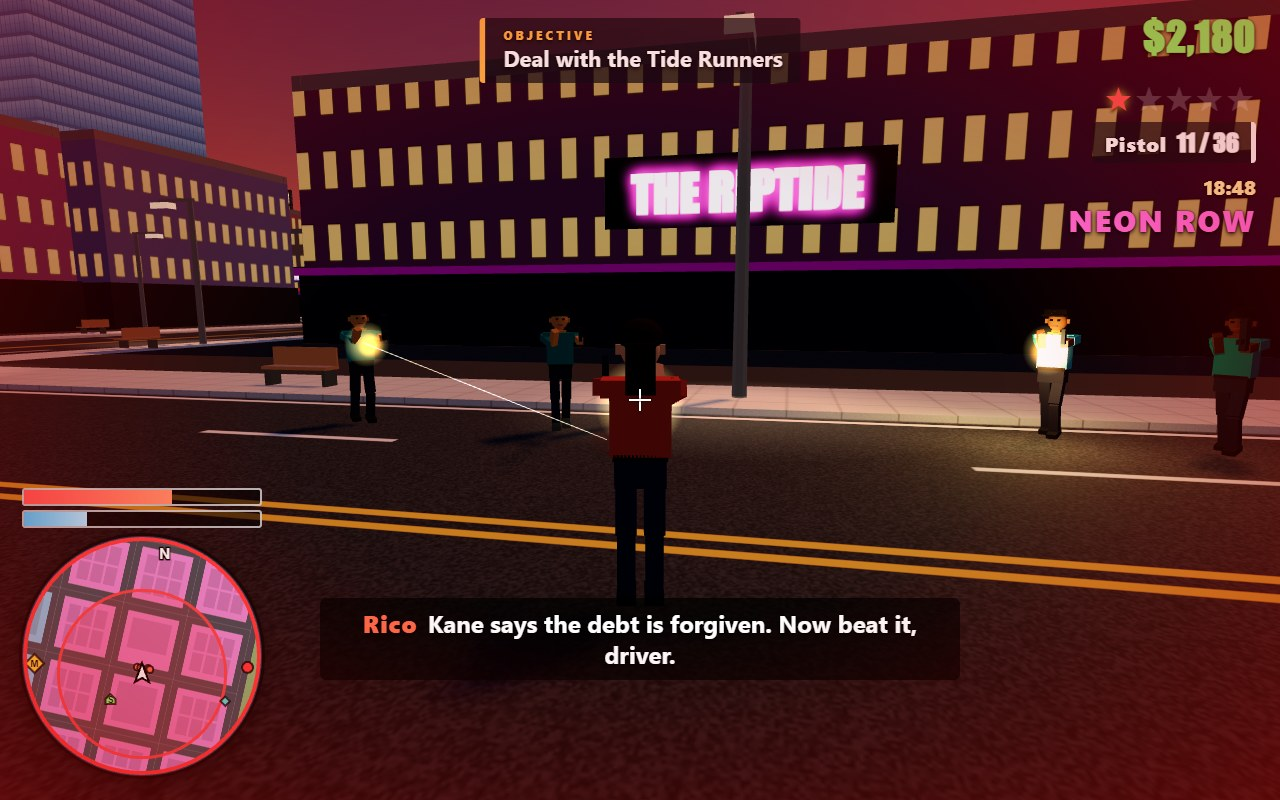
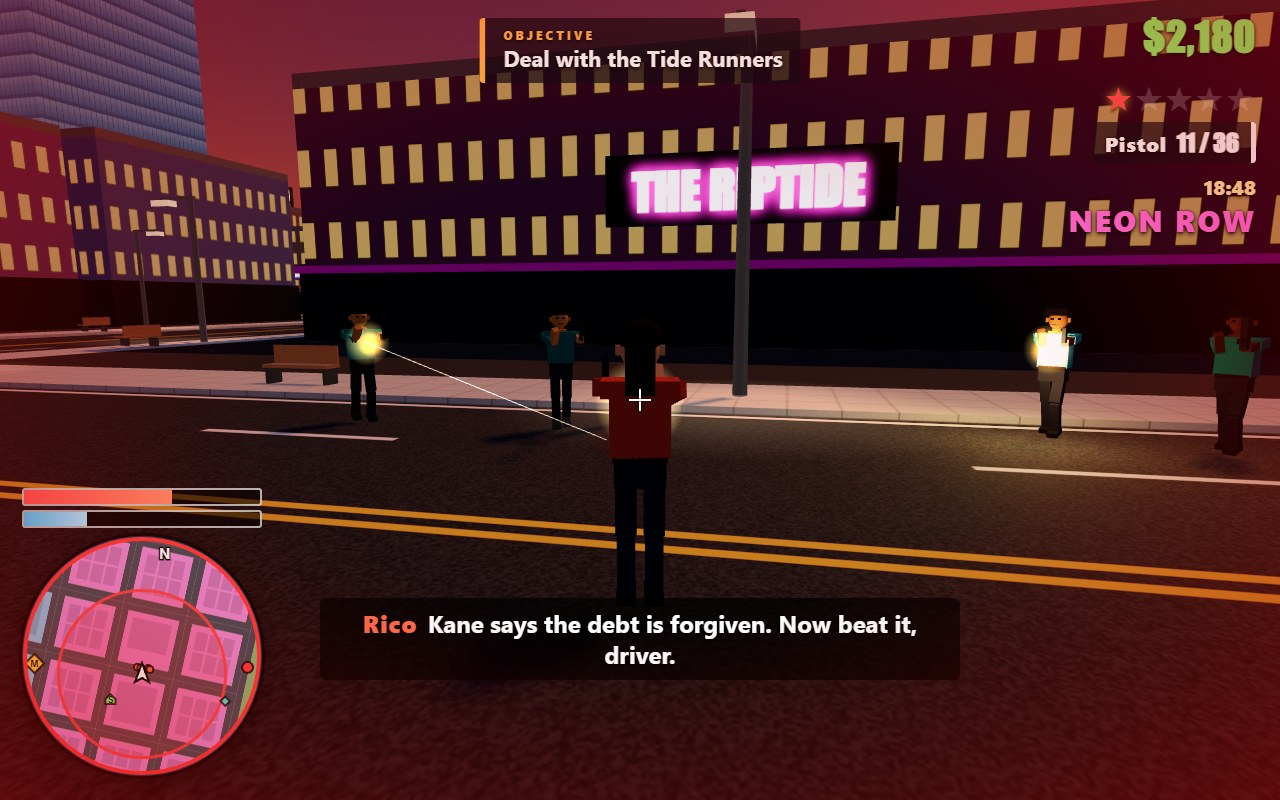
Round 3: deterministic test-mode key handling, saved-car restore check, cover traffic, final screenshots

diff --git a/game/src/shots.js b/game/src/shots.js
@@ -68,6 +68,9 @@ export async function stageShot(name, G) {
     G.traffic.spawnCar({ x: x0 + 48, z: layout.oceanZ + 5.25, yaw: Math.PI / 2, node: G.nav.node(5, 9), dir: 'e', lane: 1 }, 'taxi');
     G.traffic.spawnCar({ x: x0 + 70, z: layout.oceanZ + 1.75, yaw: Math.PI / 2, node: G.nav.node(5, 9), dir: 'e', lane: 0 }, 'sedan');
     G.traffic.spawnCar({ x: x0 - 70, z: layout.oceanZ - 5.25, yaw: -Math.PI / 2, node: G.nav.node(3, 9), dir: 'w', lane: 1 }, 'van');
+    // Oncoming traffic in the far lane beside the camera, so the drive reads as a busy street.
+    const passing = G.traffic.spawnCar({ x: x0 - 4, z: layout.oceanZ + 5.25, yaw: Math.PI / 2, node: G.nav.node(5, 9), dir: 'e', lane: 1 }, 'pickup');
+    passing.vx = 9;
     const from = { x: x0 + 6, z };
     crowd(G, [
       [x0 - 15, layout.oceanZ - 9, false], [x0 - 19, layout.oceanZ - 8.4, false], [x0 - 9, layout.oceanZ - 9.6, true], [x0 + 2, layout.oceanZ - 8.8, false], [x0 + 10, layout.oceanZ - 9.2, true],

diff --git a/game/src/main.js b/game/src/main.js
@@ -384,7 +384,12 @@ window.addEventListener('keydown', () => G.audio.unlock(), { once: false });
 
 /** The test harness: advance the simulation deterministically and render on demand. */
 G.advance = (seconds, stepSize = PHYSICS.subStep) => {
-  if (G.state !== 'playing') return;
+  handleFrameKeys();
+  if (G.state !== 'playing') {
+    // The press was consumed here; the frame loop must not act on it again.
+    G.input.endFrame(G.world.time);
+    return;
+  }
   let left = seconds;
   while (left > 1e-6) {
     const dt = Math.min(PHYSICS.maxFrame, left);
